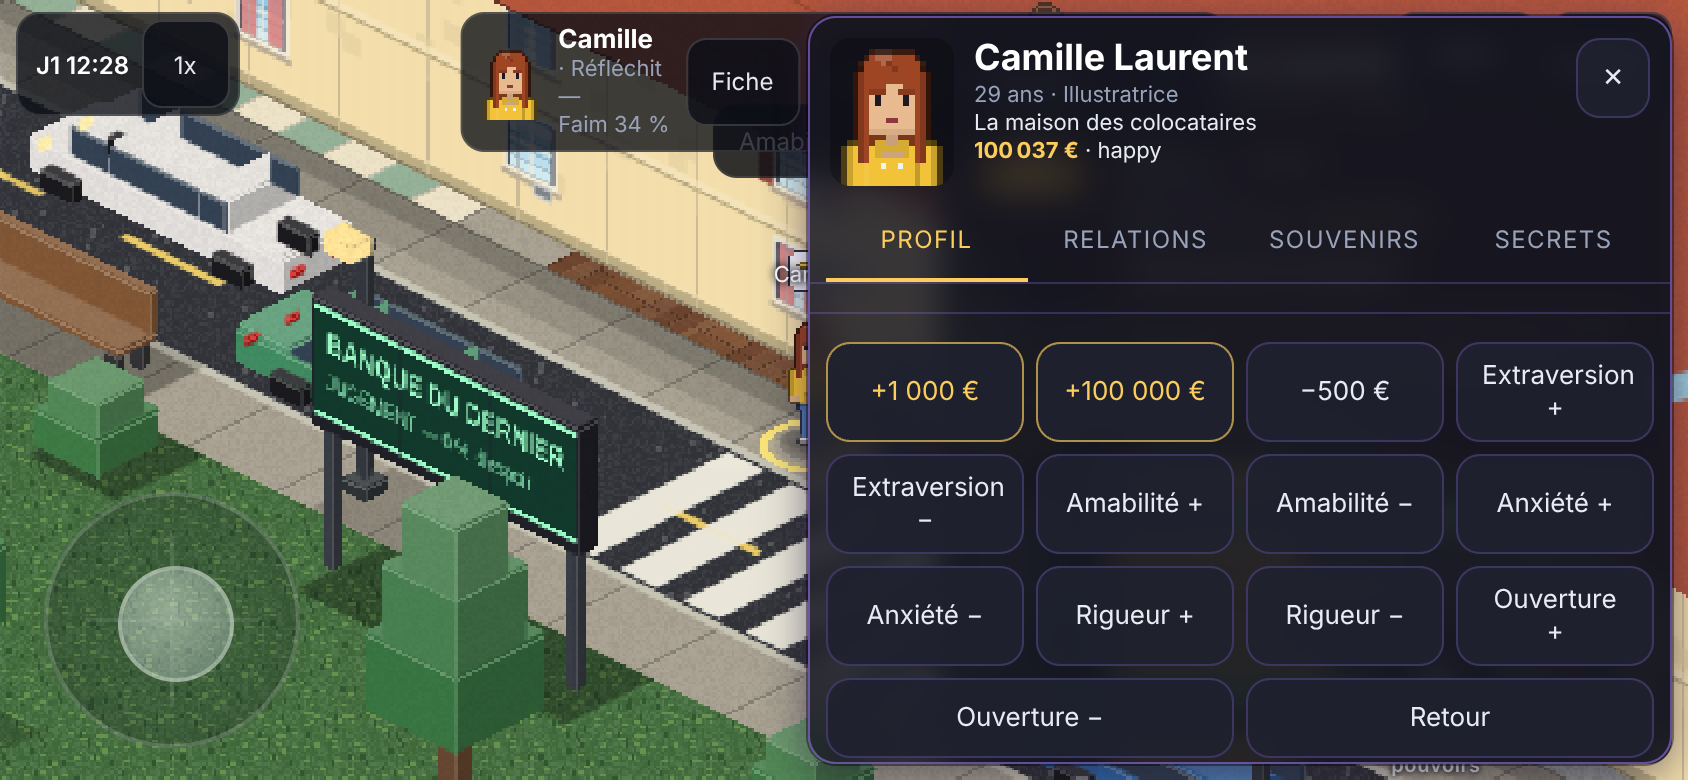
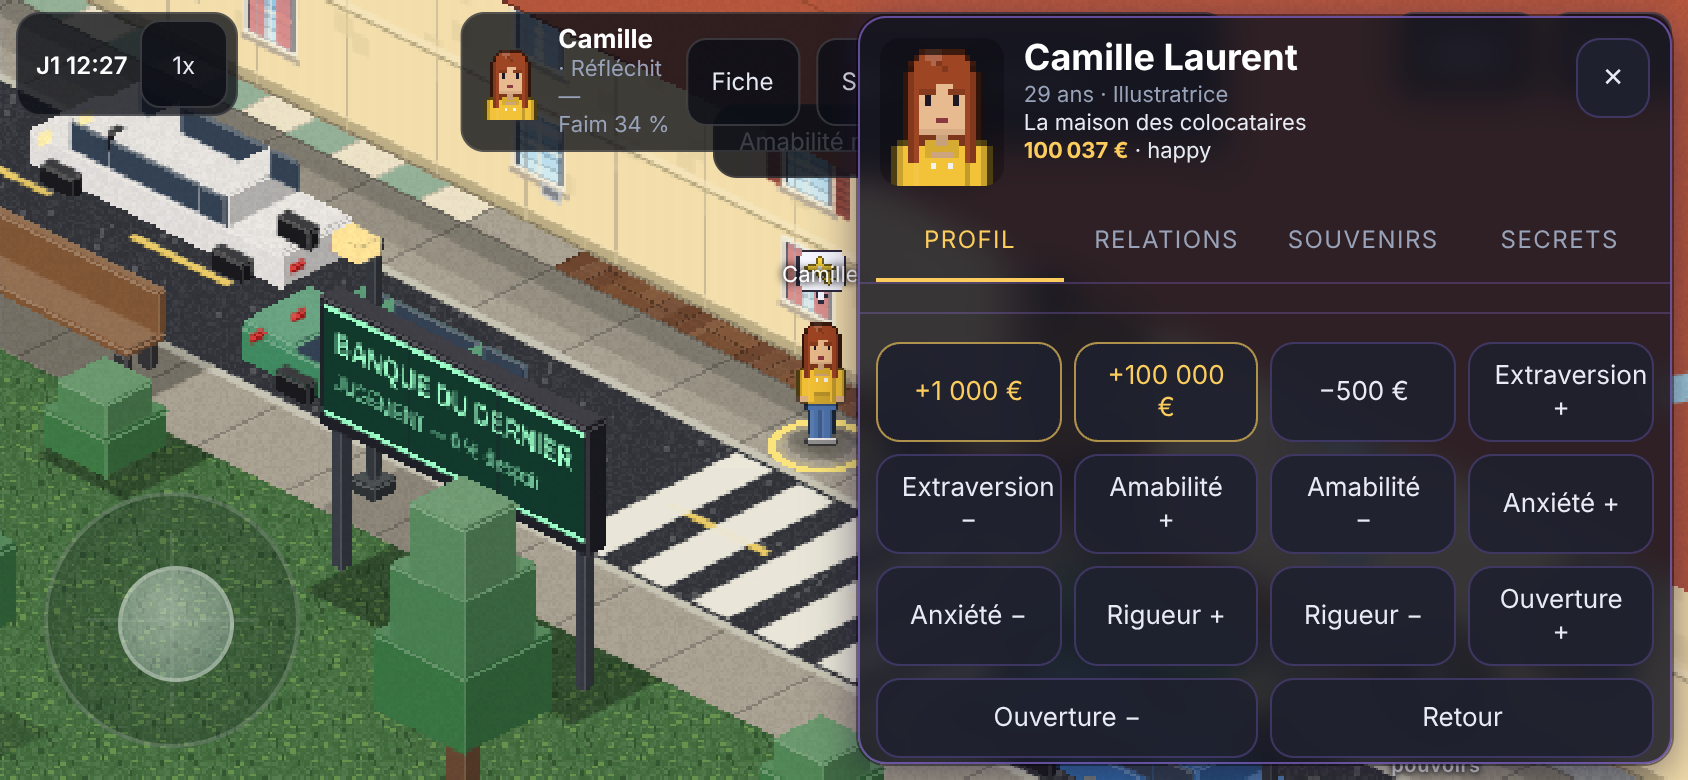
Fiche: classe dediee (plus d'ancien panneau derriere), bouton fiche avant Au revoir, largeur 48vw ; tests e2e robustes
Claude-Session: https://claude.ai/code/session_01TgHL2ERFFt3nTP8cEL1RNQ

diff --git a/src/ui/fiche.ts b/src/ui/fiche.ts
@@ -14,7 +14,7 @@ const esc = (s: string) => s.replace(/[&<>]/g, (c) => ({ '&': '&amp;', '<': '&lt
 const NEED_FR: Record<string, string> = { hunger: 'Faim', energy: 'Énergie', bladder: 'Vessie', hygiene: 'Hygiène', social: 'Social', fun: 'Loisirs' };
 const col = (v: number) => (v > 66 ? '#7ee0a0' : v > 33 ? '#fccd5c' : '#ff8a8a');
 const CSS = `
-#fiche{position:absolute;z-index:40;pointer-events:auto;display:none;flex-direction:column;overflow:hidden;right:calc(var(--sr,0px) + 8px);top:calc(var(--st,0px) + 8px);bottom:calc(var(--sb,0px) + 8px);width:min(430px,56vw)}
+#fiche{position:absolute;z-index:40;pointer-events:auto;display:none;flex-direction:column;overflow:hidden;right:calc(var(--sr,0px) + 8px);top:calc(var(--st,0px) + 8px);bottom:calc(var(--sb,0px) + 8px);width:min(430px,48vw)}
 #fiche .hd{display:flex;gap:10px;padding:10px 10px 6px;align-items:flex-start} #fiche .hd img.p{width:62px;height:74px;image-rendering:pixelated;object-fit:contain;background:rgba(0,0,0,.25);border-radius:10px}
 #fiche .hd h3{margin:0;font-size:18px;color:#fff} #fiche .x{margin-left:auto}
 #fiche .body{flex:1;overflow:auto;padding:4px 12px 10px;font-size:12.5px;line-height:1.45;-webkit-overflow-scrolling:touch}
@@ -35,8 +35,8 @@ export class FicheUi {
   private pressed = false;
   private watchPress() { this.el.addEventListener('pointerdown', () => (this.pressed = true)); const up = () => setTimeout(() => (this.pressed = false), 120); window.addEventListener('pointerup', up); window.addEventListener('pointercancel', up); }
   isOpen() { return this.id >= 0; }
-  open(id: number, tab: Tab = 'profil') { this.id = id; this.tab = tab; this.sub = ''; this.sig = ''; this.render(true); this.el.style.display = 'flex'; this.g.hud.root.classList.add('charp-open'); }
-  close() { this.id = -1; this.el.style.display = 'none'; this.g.hud.root.classList.remove('charp-open'); }
+  open(id: number, tab: Tab = 'profil') { this.id = id; this.tab = tab; this.sub = ''; this.sig = ''; this.render(true); this.el.style.display = 'flex'; this.g.hud.root.classList.add('fiche-open'); }
+  close() { this.id = -1; this.el.style.display = 'none'; this.g.hud.root.classList.remove('fiche-open'); }
   update(dt: number) { if (this.id < 0) return; this.acc += dt; if (this.acc < 0.6) return; this.acc = 0; if (this.pressed) return; this.render(false); }
   private home(c: SimChar) { if (c.kind === 'resident') return 'La maison des colocataires'; const b = c.home ? L.buildingAt(Math.floor(c.home.x), Math.floor(c.home.y)) : undefined; return b?.title ?? (c.kind === 'avatar' ? 'Sans domicile fixe' : '—'); }
   private rels(c: SimChar) {

diff --git a/src/ui/human.ts b/src/ui/human.ts
@@ -54,7 +54,8 @@ export class HumanUi {
       body = `<div class="menu">${items.map(([id, n]) => this.opt('give_item:' + id, I.ITEMS[id]?.label ?? id, `×${n}`, true)).join('') || '<span class="dim">Vous n\'avez rien à offrir.</span>'}${this.opt('back', 'Retour', '', true)}</div>`;
     } else {
       const d = I.dialogueOpen(w, npc);
-      body = `<div class="choices">${d.choices.map((c) => this.opt(c.id, c.label, c.hint ?? '', c.enabled)).join('')}${this.opt('sheet', 'Consulter sa fiche', 'profil, relations, souvenirs', true)}</div>`;
+      const all = [...d.choices]; all.splice(Math.max(0, all.length - 1), 0, { id: 'sheet', label: 'Consulter sa fiche', hint: 'profil, relations, souvenirs', enabled: true } as any);
+      body = `<div class="choices">${all.map((c) => this.opt(c.id, c.label, c.hint ?? '', c.enabled)).join('')}</div>`;
     }
     this.el.dlg.innerHTML = `<div class="head"><img class="pp" src="${cv.assets.portrait.toDataURL()}"><div style="flex:1"><div class="row" style="justify-content:space-between"><b style="font-size:17px;color:#fff">${esc(npc.name)}</b><span class="dim small">${esc(rl)} · ${EMOTIONS[npc.emotion] ?? ''}${npc.drunk > 15 ? ' · éméché' : ''}</span></div>
       <div class="txt">${esc(this.last)}</div></div></div>${body}<div class="small dim" style="margin-top:6px">Touches 1–9 : choisir · Échap : partir · Le monde est en pause pendant la conversation</div>`;
